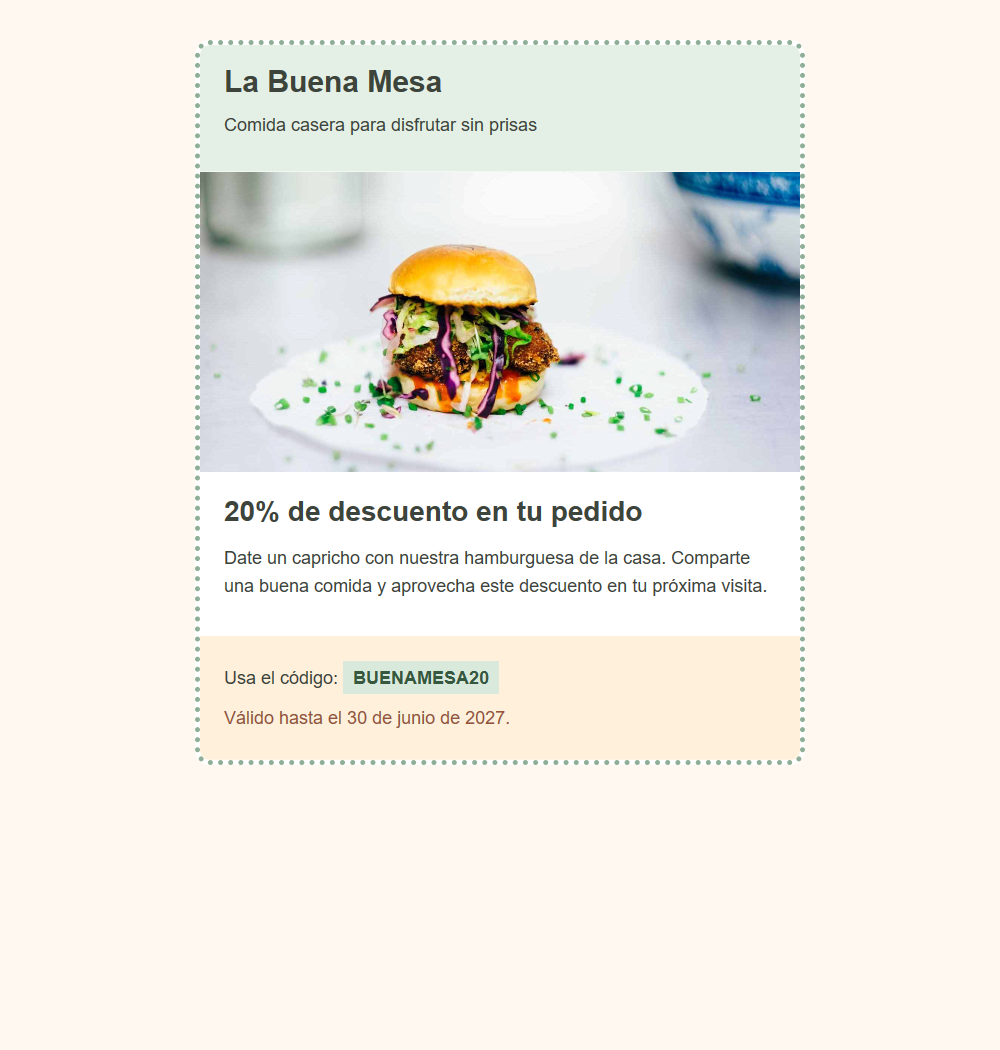
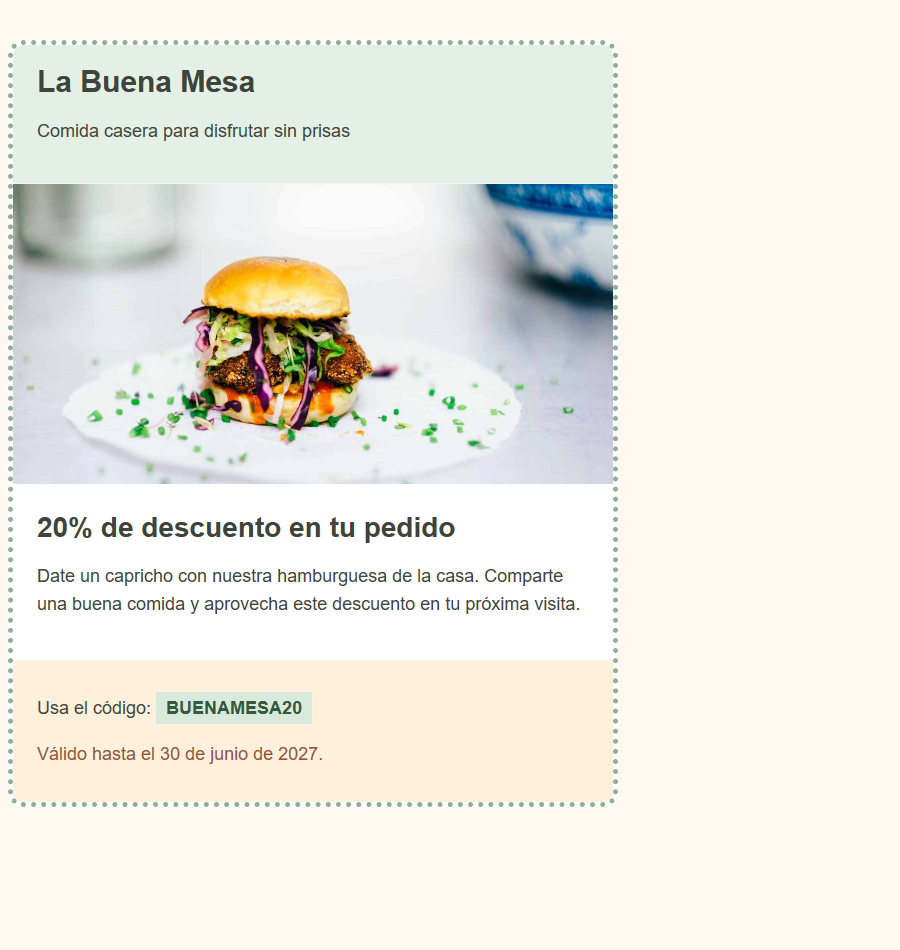
Dejar cupon a la izquierda con margenes naturales y sin display block

diff --git a/02-cupon-descuento/index.html b/02-cupon-descuento/index.html
@@ -14,7 +14,7 @@ body {
 
 .cupon {
   width: 600px;
-  margin: 40px auto;
+  margin: 40px 0;
   border: 5px dotted #8fae98;
   border-radius: 15px;
   background-color: #ffffff;
@@ -37,12 +37,10 @@ h2 {
 }
 
 p {
-  margin: 12px 0;
   line-height: 28px;
 }
 
 .foto {
-  display: block;
   width: 600px;
 }
 

diff --git a/02-cupon-descuento/README.md b/02-cupon-descuento/README.md
@@ -16,13 +16,13 @@ Reproduce el cupón de la captura escribiendo todas las reglas CSS dentro de la 
 | Parte | Indicaciones |
 | --- | --- |
 | Página | Arial o sans-serif, 18 px; fondo `#fff8f0`, texto `#3d443b` |
-| Cupón | Ancho de 600 px, margen de 40 px arriba y abajo y `auto` a los lados; borde de puntos de 5 px `#8fae98`, radio de 15 px y fondo `#ffffff` |
+| Cupón | Ancho de 600 px, margen de 40 px arriba y abajo y 0 px a los lados; borde de puntos de 5 px `#8fae98`, radio de 15 px y fondo `#ffffff` |
 | Cabecera | Padding de 20 px arriba y abajo y 24 px a los lados; fondo `#e4efe5`, esquinas superiores redondeadas de 10 px |
 | Título de la marca | 30 px; margen de 0 px salvo 10 px debajo |
-| Imagen | Ancho de 600 px; `display: block` para evitar el pequeño espacio inferior de las imágenes en línea |
+| Imagen | Ancho de 600 px |
 | Oferta | Padding de 24 px |
 | Título de la oferta | 28 px; margen de 0 px salvo 16 px debajo |
-| Párrafos | Margen de 12 px arriba y abajo y 0 px a los lados; interlineado de 28 px |
+| Párrafos | Conserva el margen natural del navegador; interlineado de 28 px |
 | Condiciones | Padding de 16 px arriba y abajo y 24 px a los lados; fondo `#fff0db`, esquinas inferiores redondeadas de 10 px |
 | Código | Padding de 6 px arriba y abajo y 10 px a los lados; fondo `#d9eadc`, texto `#35583f` |
 | Caducidad | Texto `#94543b` |

diff --git a/03-banner-anuncio/README.md b/03-banner-anuncio/README.md
@@ -1,6 +1,6 @@
 # Un banner de anuncio
 
-Este anuncio ya tiene el HTML y el CSS completos. Tu tarea es enlazar la hoja de estilos externa para que se vea como en la captura.
+❗ **El CSS ya está implementado en `estilos.css`: no tienes que escribirlo. Tu única tarea es enlazarlo desde el HTML.**
 
 ## Tu tarea
 
